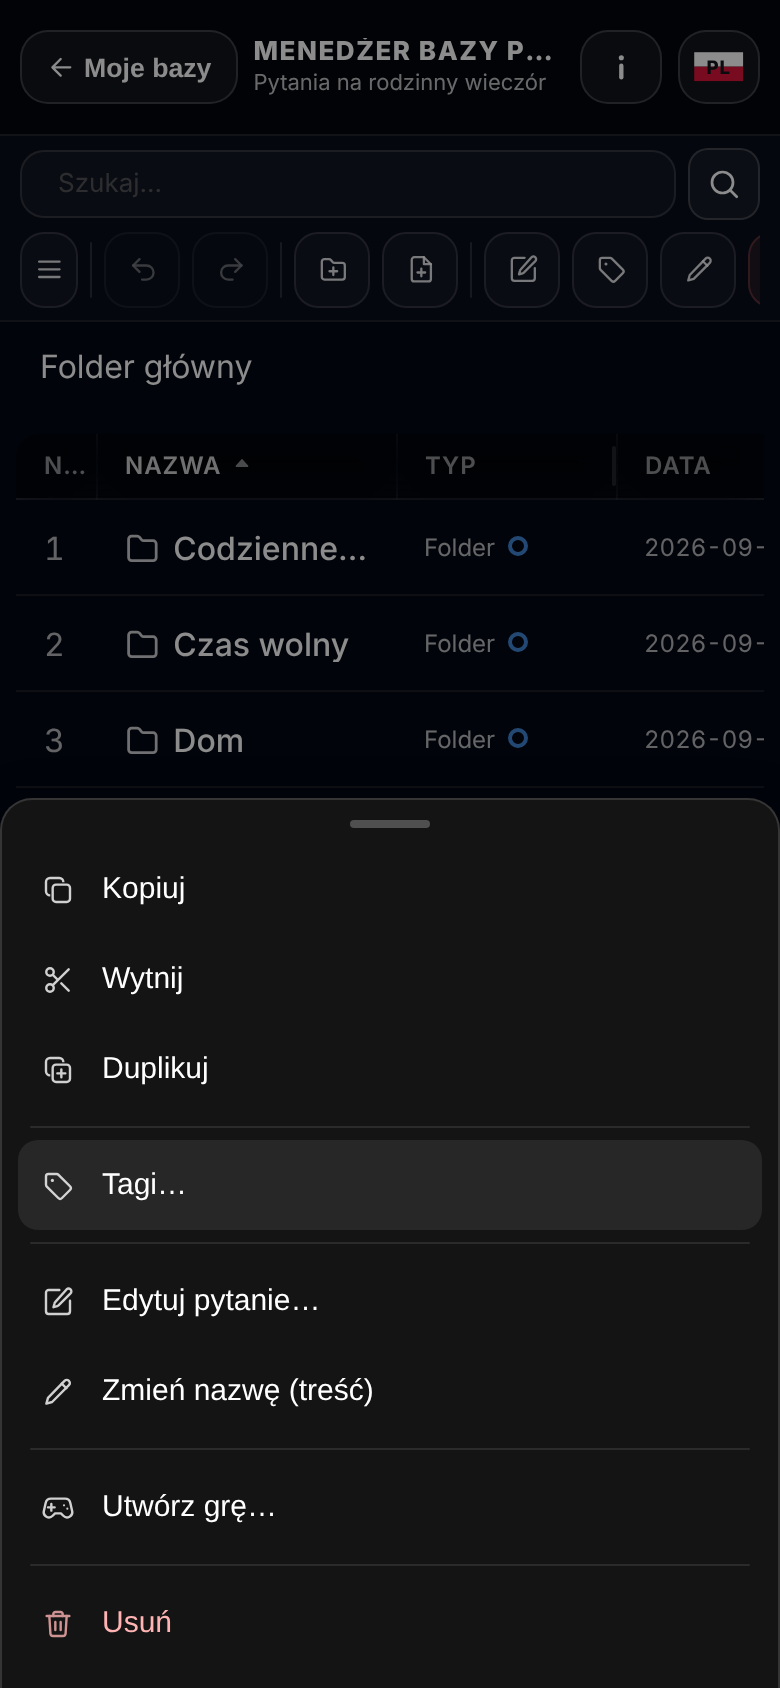
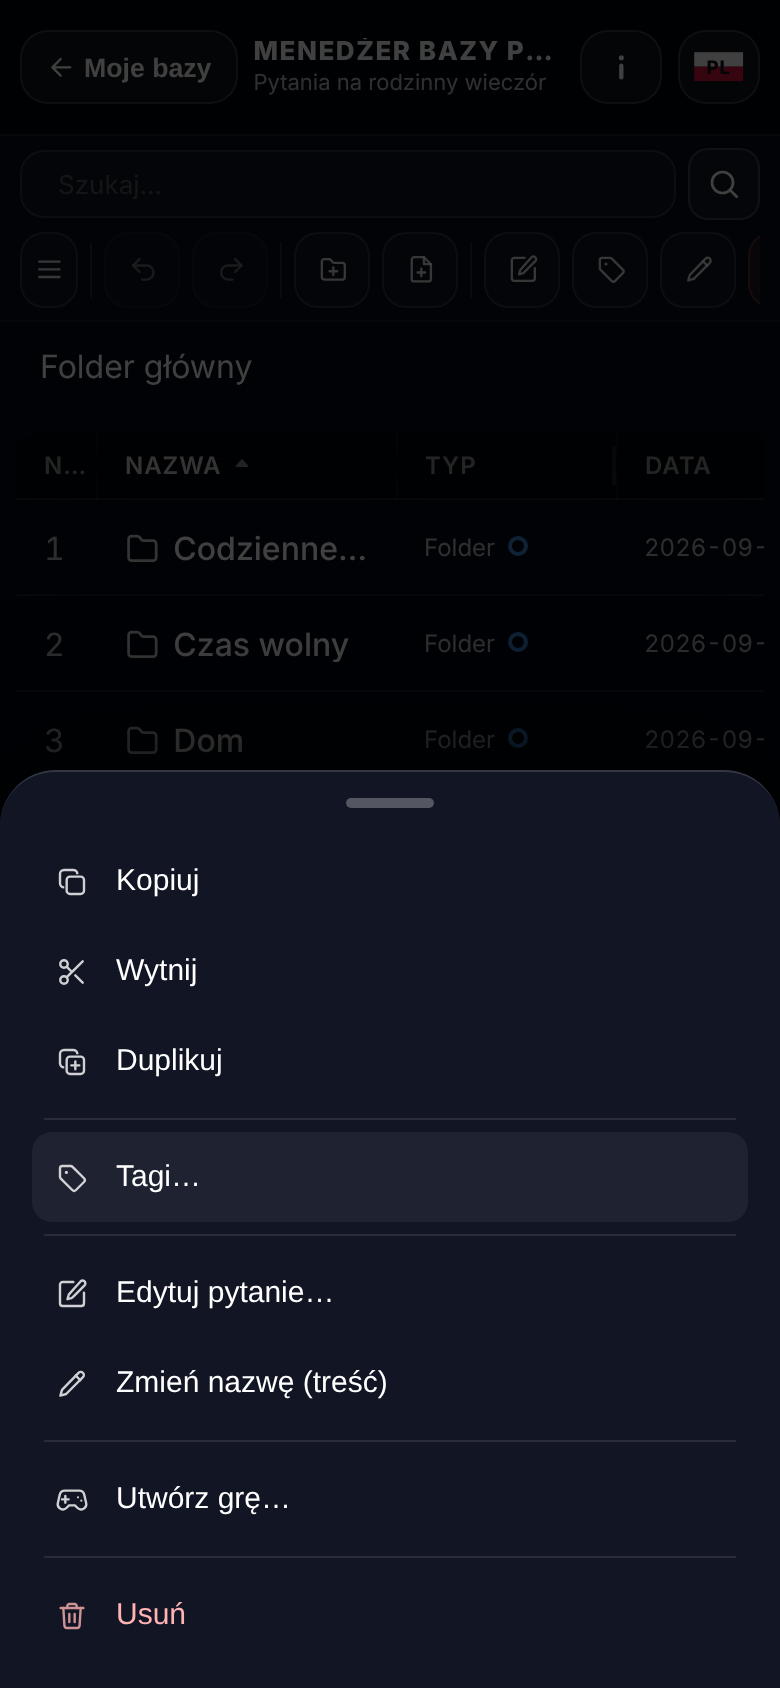
E22 (tylko lokalnie): menu kontekstowe na telefonie jak ujednolicone okna od dołu
Wygląd i zachowanie jak okna od dołu z claude/new-session-ay1h9t: tło
#121524, rogi 28 px, linia u góry, pasek do przeciągania (stuknięcie lub
przeciągnięcie w dół zamyka), wysuwanie i zjazd z animacją, przyciemnione
tło, safe area, ten sam warunek telefon / tablet dotykowy. Test e2e.

Claude-Session: https://claude.ai/code/session_01G9bp3sDMZMgi9kxrvLkmJC

diff --git a/web/bases/explorer/js/context-menu.js b/web/bases/explorer/js/context-menu.js
@@ -2,9 +2,10 @@
 // Menu kontekstowe (PPM / przytrzymanie). Pozycje pochodzą z rejestru akcji
 // (registry.js: menu + menuGroup), dostępność i wykonanie z tego samego
 // kontekstu co pasek i skróty.
-// Na komputerze menu przy kursorze; na telefonie arkusz od dołu (z safe area,
-// decyzja 2026-10-20) z tłem, które zamyka go dotknięciem.
-
+// Na komputerze menu przy kursorze; na telefonie i tablecie dotykowym okno
+// od dołu wyglądające jak pozostałe okna (wzorzec „okno od dołu” z
+// shared/css/base.css i modal-sheet.js): przyciemnione tło, rogi 28 px,
+// pasek do przeciągania, wysuwanie i zjazd z animacją, safe area.
 import { selectionSetSingle } from "./state.js?v=v2026-10-20T19584";
 import { ACTIONS, MENU_GROUPS, actionState } from "./actions/registry.js?v=v2026-10-20T19584";
 import { buildContext } from "./actions/context.js?v=v2026-10-20T19584";
@@ -14,7 +15,9 @@ import { t } from "../../../shared/translation/translation.js?v=v2026-10-20T1958
 import { renderSelection } from "./render.js?v=v2026-10-20T19584";
 import { icon } from "../../../shared/js/core/icons.js?v=v2026-10-20T19584";
 
-const SHEET_QUERY = "(max-width: 900px)";
+// Ten sam warunek co okna od dołu (SHEET_MQ w modal-sheet.js).
+const SHEET_QUERY = "(max-width:600px), (hover:none) and (pointer:coarse) and (max-width:1366px)";
+const CLOSE_MS = 230;
 // Palec puszczony po przytrzymaniu daje „klik” bez wciśnięcia w menu —
 // pozycja wykonuje się tylko po wciśnięciu, które zaczęło się w menu
 // (albo z klawiatury: klik bez wciśnięcia, detail === 0).
@@ -24,8 +27,10 @@ let wired = false;
 // otwarcia (np. panel przewinięty do klikniętego wiersza) nie zamyka menu.
 const SCROLL_GRACE_MS = 250;
 let openedAt = 0;
+let closingTimer = null;
 
 const isSheet = () => window.matchMedia?.(SHEET_QUERY).matches;
+const menuEl = () => document.getElementById("contextMenu");
 
 function backdrop() {
   let el = document.getElementById("contextMenuBackdrop");
@@ -34,29 +39,40 @@ function backdrop() {
     el.id = "contextMenuBackdrop";
     el.className = "context-menu-backdrop";
     el.hidden = true;
-    el.addEventListener("click", () => { el.hidden = true; });
-    document.getElementById("contextMenu")?.before(el);
+    menuEl()?.before(el);
   }
   return el;
 }
 
 export function isContextMenuOpen() {
-  const cm = document.getElementById("contextMenu");
+  const cm = menuEl();
   return !!cm && !cm.hidden;
 }
 
-export function hideContextMenu({ fromBackdrop = false } = {}) {
-  const cm = document.getElementById("contextMenu");
-  if (!cm || cm.hidden) return;
-  cm.hidden = true;
-  cm.innerHTML = "";
-  cm.classList.remove("is-sheet");
+function hideNow() {
+  clearTimeout(closingTimer);
+  closingTimer = null;
+  const cm = menuEl();
+  if (cm) {
+    cm.hidden = true;
+    cm.innerHTML = "";
+    cm.classList.remove("is-sheet", "is-closing", "is-dragging", "is-settling");
+    cm.style.removeProperty("--cm-drag");
+  }
   const bd = document.getElementById("contextMenuBackdrop");
-  if (!bd) return;
-  // dotknięte tło zostaje chwilę, żeby „klik” po dotknięciu nie trafił
-  // w wiersz pod spodem
-  if (fromBackdrop) setTimeout(() => { bd.hidden = true; }, 400);
-  else bd.hidden = true;
+  if (bd) { bd.hidden = true; bd.classList.remove("is-closing"); }
+}
+
+// animate: arkusz zjeżdża w dół, tło gaśnie (tło łapie też „klik” po
+// dotknięciu, więc nie trafia on w wiersz pod spodem)
+export function hideContextMenu({ animate = false } = {}) {
+  const cm = menuEl();
+  if (!cm || cm.hidden) return;
+  if (!animate || !cm.classList.contains("is-sheet")) { hideNow(); return; }
+  if (closingTimer) return;
+  cm.classList.add("is-closing");
+  document.getElementById("contextMenuBackdrop")?.classList.add("is-closing");
+  closingTimer = setTimeout(hideNow, CLOSE_MS);
 }
 
 // Zamykanie: dotknięcie / klik poza menu, przewinięcie, zmiana rozmiaru.
@@ -66,15 +82,54 @@ function wireClose() {
   document.addEventListener("pointerdown", (e) => {
     if (!isContextMenuOpen()) return;
     if (e.target.closest?.("#contextMenu")) return;
-    hideContextMenu({ fromBackdrop: e.target.id === "contextMenuBackdrop" });
+    hideContextMenu({ animate: true });
   }, true);
-  window.addEventListener("resize", () => hideContextMenu());
+  // arkusz dopasowuje się sam; zmiana rozmiaru zamyka tylko menu przy kursorze
+  window.addEventListener("resize", () => { if (!menuEl()?.classList.contains("is-sheet")) hideContextMenu(); });
   document.addEventListener("scroll", (e) => {
     if (e.target?.closest?.("#contextMenu")) return; // przewijanie samego arkusza
     if (performance.now() - openedAt < SCROLL_GRACE_MS) return;
-    hideContextMenu();
+    hideContextMenu({ animate: true });
   }, true);
   window.addEventListener("blur", () => hideContextMenu());
+}
+
+// Pasek u góry arkusza: stuknięcie albo przeciągnięcie w dół zamyka
+// (jak sheetHandle w modal-sheet.js).
+function sheetHandle(cm) {
+  const handle = document.createElement("button");
+  handle.type = "button";
+  handle.className = "cm-handle";
+  handle.setAttribute("aria-label", t("common.modal.closeLabel"));
+  let startY = null, lastY = 0, lastT = 0, velocity = 0, moved = false;
+  const setDrag = (px) => cm.style.setProperty("--cm-drag", `${Math.max(0, px)}px`);
+  handle.addEventListener("pointerdown", (e) => {
+    startY = e.clientY; lastY = e.clientY; lastT = e.timeStamp; velocity = 0; moved = false;
+    handle.setPointerCapture?.(e.pointerId);
+    cm.classList.add("is-dragging");
+  });
+  handle.addEventListener("pointermove", (e) => {
+    if (startY === null) return;
+    const dy = e.clientY - startY;
+    if (Math.abs(dy) > 4) moved = true;
+    velocity = (e.clientY - lastY) / Math.max(1, e.timeStamp - lastT);
+    lastY = e.clientY; lastT = e.timeStamp;
+    setDrag(dy);
+  });
+  const end = () => {
+    if (startY === null) return;
+    const dy = lastY - startY;
+    startY = null;
+    cm.classList.remove("is-dragging");
+    const limit = Math.min(160, cm.offsetHeight * 0.25);
+    if (!moved || dy > limit || velocity > 0.6) { hideContextMenu({ animate: true }); return; }
+    cm.classList.add("is-settling");
+    setDrag(0);
+    setTimeout(() => cm.classList.remove("is-settling"), 240);
+  };
+  handle.addEventListener("pointerup", end);
+  handle.addEventListener("pointercancel", end);
+  return handle;
 }
 
 function itemHtml(item, idx) {
@@ -140,7 +195,7 @@ export async function showContextMenu({ state, x, y, target }) {
   const cm = document.getElementById("contextMenu");
   if (!cm) return;
   wireClose();
-  hideContextMenu();
+  hideNow();
 
   if (selectTargetFirst(state, target)) renderSelection(state);
 
@@ -169,6 +224,7 @@ export async function showContextMenu({ state, x, y, target }) {
     cm.classList.add("is-sheet");
     cm.style.left = "";
     cm.style.top = "";
+    cm.prepend(sheetHandle(cm));
     backdrop().hidden = false;
     cm.hidden = false;
   } else {

diff --git a/web/bases/explorer/css/base-explorer.css b/web/bases/explorer/css/base-explorer.css
@@ -2144,34 +2144,80 @@ tr.row.is-drop-after td:last-child::after {
 .search-suggest-item:hover,
 .search-suggest-item.is-active { background: #272727; }
 
-/* ===== Menu kontekstowe na telefonie: arkusz od dołu (decyzja 2026-10-20) ===== */
+/* ===== Menu kontekstowe na telefonie i tablecie dotykowym: okno od dołu =====
+   Ten sam wygląd co pozostałe okna od dołu (shared/css/base.css, „Okno od
+   dołu”): przyciemnione tło, panel #121524 z rogami 28 px i linią u góry,
+   pasek do przeciągania 44×5, wysuwanie / zjazd z animacją, safe area;
+   na tablecie węższy panel z bocznymi krawędziami. Warunek jak SHEET_QUERY
+   w context-menu.js. */
 .context-menu-backdrop {
   position: fixed;
   inset: 0;
   z-index: 9998;
-  background: rgba(0,0,0,.45);
+  background: var(--modal-scrim, rgba(0,0,0,.55));
+  animation: cmScrimIn .28s ease both;
 }
 .context-menu-backdrop[hidden] { display: none; }
+.context-menu-backdrop.is-closing { animation: cmScrimOut .24s ease both; }
+
 .context-menu.is-sheet {
   left: 0 !important;
   right: 0;
   top: auto !important;
   bottom: 0;
+  margin: 0 auto;
+  width: 100%;
   min-width: 0;
-  max-width: none;
-  max-height: min(70vh, 560px);
+  max-width: 760px;
+  max-height: calc(100dvh - max(16px, env(safe-area-inset-top, 0px) + 12px));
   overflow-y: auto;
   overscroll-behavior: contain;
-  border-radius: 16px 16px 0 0;
-  border-bottom: 0;
-  padding: 10px max(8px, env(safe-area-inset-right)) calc(10px + env(safe-area-inset-bottom)) max(8px, env(safe-area-inset-left));
+  border-radius: 28px 28px 0 0;
+  border: 0;
+  border-top: 1px solid var(--line, rgba(255,255,255,.14));
+  background: #121524;
+  box-shadow: 0 -18px 60px rgba(0,0,0,.6);
+  padding: 32px calc(16px + env(safe-area-inset-right, 0px)) calc(14px + env(safe-area-inset-bottom, 0px)) calc(16px + env(safe-area-inset-left, 0px));
+  transform: translateY(var(--cm-drag, 0px));
+  animation: cmSheetUp .34s cubic-bezier(.2,.8,.2,1) both;
+  will-change: transform;
 }
-.context-menu.is-sheet::before {
+.context-menu.is-sheet.is-dragging { animation: none; transition: none; }
+.context-menu.is-sheet.is-settling { animation: none; transition: transform .22s cubic-bezier(.2,.8,.2,1); }
+.context-menu.is-sheet.is-closing { animation: cmSheetDown .24s ease-in both; }
+
+.context-menu .cm-handle { display: none; }
+.context-menu.is-sheet .cm-handle {
+  position: absolute;
+  top: 0; left: 50%;
+  transform: translateX(-50%);
+  width: 140px; height: 30px;
+  padding: 0; border: 0; background: none;
+  cursor: grab; touch-action: none;
+  display: grid; place-items: center;
+}
+.context-menu.is-sheet .cm-handle::before {
   content: "";
-  display: block;
-  width: 40px;
-  height: 4px;
-  margin: 0 auto 8px;
-  border-radius: 999px;
-  background: rgba(255,255,255,.25);
+  width: 44px; height: 5px; border-radius: 999px;
+  background: rgba(255,255,255,.28);
+}
+
+/* pozycje jak na telefonie: większe, bez skrótów klawiszowych */
+.context-menu.is-sheet .cm-item { padding: 14px 12px; font-size: 15px; }
+.context-menu.is-sheet .cm-item:hover { background: rgba(255,255,255,.06); }
+.context-menu.is-sheet .cm-kbd { display: none; }
+
+@media (min-width: 601px) {
+  .context-menu.is-sheet {
+    border: 1px solid var(--line, rgba(255,255,255,.14));
+    border-bottom: 0;
+  }
+}
+
+@keyframes cmSheetUp { from { transform: translateY(100%); } to { transform: translateY(var(--cm-drag, 0px)); } }
+@keyframes cmSheetDown { from { transform: translateY(var(--cm-drag, 0px)); } to { transform: translateY(100%); } }
+@keyframes cmScrimIn { from { background-color: rgba(0,0,0,0); } }
+@keyframes cmScrimOut { to { background-color: rgba(0,0,0,0); } }
+@media (prefers-reduced-motion: reduce) {
+  .context-menu.is-sheet, .context-menu.is-sheet.is-closing, .context-menu-backdrop { animation-duration: 1ms !important; }
 }

diff --git a/tests/e2e/base-explorer.spec.js b/tests/e2e/base-explorer.spec.js
@@ -3387,3 +3387,40 @@ test.describe("base-explorer: cofanie i ponawianie (E22)", () => {
     }
   });
 });
+
+test.describe("base-explorer: menu kontekstowe na telefonie (okno od dołu)", () => {
+  test("menu otwiera się od dołu jak inne okna; pasek i tło je zamykają", async ({ page, context }) => {
+    test.setTimeout(60_000);
+    await page.setViewportSize({ width: 390, height: 844 });
+    await loginAsTestUser(page, context, { username: testAccountUsername(1) });
+    const baseId = await createBase(page, `E2E-XB-SHEETMENU-${Date.now()}`);
+
+    try {
+      const qid = await createQuestion(page, { baseId, ord: 1, payload: { text: "Pytanie", answers: [] } });
+      await page.goto(`${BASE_URL}?id=${baseId}`, { waitUntil: "domcontentloaded" });
+      await page.waitForLoadState("networkidle");
+      const row = page.locator(`#list .row[data-kind="q"][data-id="${qid}"]`);
+      await expect(row).toBeVisible({ timeout: 15000 });
+
+      const menu = page.locator("#contextMenu");
+      await row.click({ button: "right" });
+      await expect(menu).toHaveClass(/is-sheet/);
+      await expect(page.locator("#contextMenuBackdrop")).toBeVisible();
+      await expect(menu.locator(".cm-handle")).toBeVisible();
+      // po animacji wysuwania: przyklejone do dołu, na pełną szerokość
+      await expect.poll(async () => { const b = await menu.boundingBox(); return Math.round(b.y + b.height); }).toBe(844);
+      expect(Math.round((await menu.boundingBox()).width)).toBe(390);
+
+      await menu.locator(".cm-handle").click();
+      await expect(menu).toBeHidden({ timeout: 2000 });
+      await expect(page.locator("#contextMenuBackdrop")).toBeHidden();
+
+      await row.click({ button: "right" });
+      await expect(menu).toBeVisible();
+      await page.mouse.click(195, 100); // tło nad oknem
+      await expect(menu).toBeHidden({ timeout: 2000 });
+    } finally {
+      await deleteBase(page, baseId);
+    }
+  });
+});

diff --git a/web/bases/explorer/js/ui/keyboard.js b/web/bases/explorer/js/ui/keyboard.js
@@ -33,7 +33,7 @@ export function wireKeyboard(state) {
     const cm = document.getElementById("contextMenu");
     if (cm && !cm.hidden && e.key === "Escape") {
       e.preventDefault();
-      hideContextMenu();
+      hideContextMenu({ animate: true });
       return;
     }
     if (shortcutsBlocked()) return;

diff --git a/docs/wdrozenia.md b/docs/wdrozenia.md
@@ -217,6 +217,7 @@ bo `PAGES` deklaruje blokady; adresy po mapie stron; instrukcja na końcu.
 
 ## Dziennik
 
+| 2026-10-20 | E22: menu kontekstowe jak okna od dołu (lokalnie) | Na prośbę użytkownika arkusz menu ma wygląd i zachowanie ujednoliconych okien z brancha `claude/new-session-ay1h9t` (wartości przeniesione do `base-explorer.css`, bo wzorca nie ma jeszcze na `main`): pasek do przeciągania, animacje, tło #121524, rogi 28 px, warunek telefon/tablet dotykowy. Nowy test e2e; testy menu 17/17 + 8/8 lokalnie. | Po scaleniu wzorca okien z `main` można przenieść te reguły do wspólnego CSS. |
 | 2026-10-20 | E22: cofanie/ponawianie i poprawki z raportów (lokalnie) | Ctrl+Z / Ctrl+Y / Ctrl+Shift+Z, Cofnij/Ponów w pasku i menu tła; wpisy historii w `commands.js` z danych „przed” zwracanych przez bazę (utworzenie/kopia przez kosz z tymi samymi id, przeniesienia przez `qb_restore_positions`, tagi przez 427/429). Dymek nie wisi po przebudowie (`shared/js/core/tooltips.js`), kropki obok nazwy i nie nad nagłówkiem, lista na górę po zmianie miejsca, szerokości po obrocie, otwarcie folderu z wyników kończy wyszukiwanie. Stare testy dostosowane do E21 (limit 100, eksport <10, stopka). Lokalny e2e `base-explorer` 76/76, unit 689/689. | Zestawienie dla użytkownika; produkcja (migracje 427–429 + Pages) dopiero po jego decyzji. |
 | 2026-10-20 | E22 kroki 2–6: nowa budowa menedżera bazy (lokalnie) | Stan `location`+`query`, `data/store.js`/`derived.js`/`listing.js`, `commands.js`, nowy `render.js`, moduły `ui/*` (lista, drzewo, lewy panel, ramka, przeciąganie, wyszukiwarka, klawiatura), nowy `page.js`; usunięte `actions.js` (3837 linii) i okno kosza. Kosz jako folder w drzewie, menu na telefonie jako arkusz z safe area, `#tag`+spacja działa z klawiaturą ekranową, Proponowane kategorie z nazwami typów gry, naprawione daty „—” i mruganie przy hamburgerze. Lokalny e2e `base-explorer`: wszystkie poza 4 starymi (jak na `main`: dymek kropki, limit 200, eksport <10, wysokość `#list`), nowy test tabletki na telefonie; unit 684/684. Zrzuty: `docs/menedzer-bazy/img/` (kosz, menu, filtr). Szczegóły: `docs/menedzer-bazy/README.md` §4. | Cofanie/ponawianie przez rejestr (`history.js`), dymki w jednym mechanizmie, zestawienie dla użytkownika; produkcja dopiero po decyzji użytkownika. |
 | 2026-10-20 | E22 krok 1: rejestr akcji (lokalnie) | Pasek, menu kontekstowe i skróty z jednego rejestru (`web/bases/explorer/js/actions/`, `ui/toolbar.js`, `platform.js`); szczegóły i naprawione rozbieżności: `docs/menedzer-bazy/README.md` §4. Lokalny e2e base-explorer 68/72 (4 jak na `main`), unit 673/673. | Krok 2: stan `location`+`query`, `store`, `listing`. |

diff --git a/docs/menedzer-bazy-plan.md b/docs/menedzer-bazy-plan.md
@@ -5,6 +5,8 @@ Strona: `web/bases/explorer/` (menedżer bazy pytań). Branch roboczy:
 
 ## Decyzje
 
+- **2026-10-20:** menu kontekstowe na telefonie i tablecie dotykowym wygląda jak ujednolicone okna od dołu z brancha `claude/new-session-ay1h9t` (tło #121524, rogi 28 px, linia u góry, pasek do przeciągania, wysuwanie/zjazd z animacją, przyciemnione tło, safe area, ten sam warunek telefon / tablet dotykowy).
+
 - **2026-10-20 22:35 (użytkownik) — NADRZĘDNE, zastępują wcześniejsze ustalenia niżej:**
   - Tylko symulowana (lokalna) baza: zmiany i testy na lokalnym Postgresie
     (`scripts/agent-tools/local-e2e/`), **nic na produkcję**, dopóki
